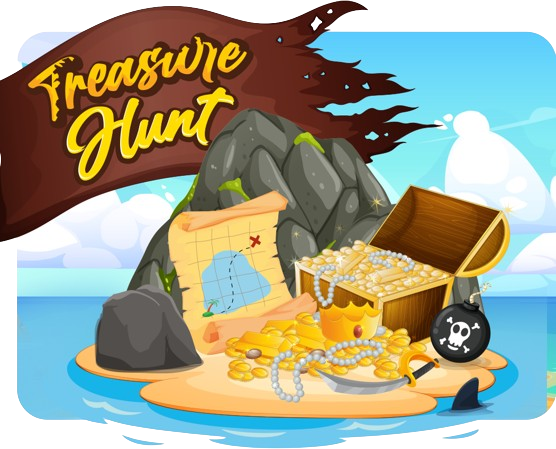
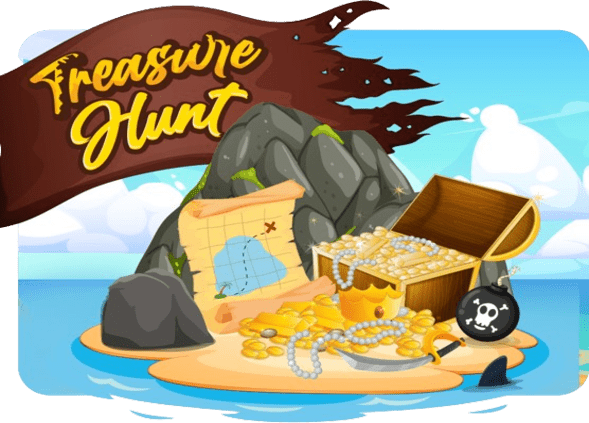
almost

diff --git a/assets/css/_main.scss b/assets/css/_main.scss
@@ -1,7 +1,6 @@
 
 
 div.main-image img {
-    width: 28vw;
     animation: floatimage 4s ease-in-out infinite;
   }
   @keyframes floatimage {

diff --git a/assets/css/style.css b/assets/css/style.css
@@ -1,5 +1,4 @@
 div.main-image img {
-  width: 28vw;
   animation: floatimage 4s ease-in-out infinite;
 }
 
